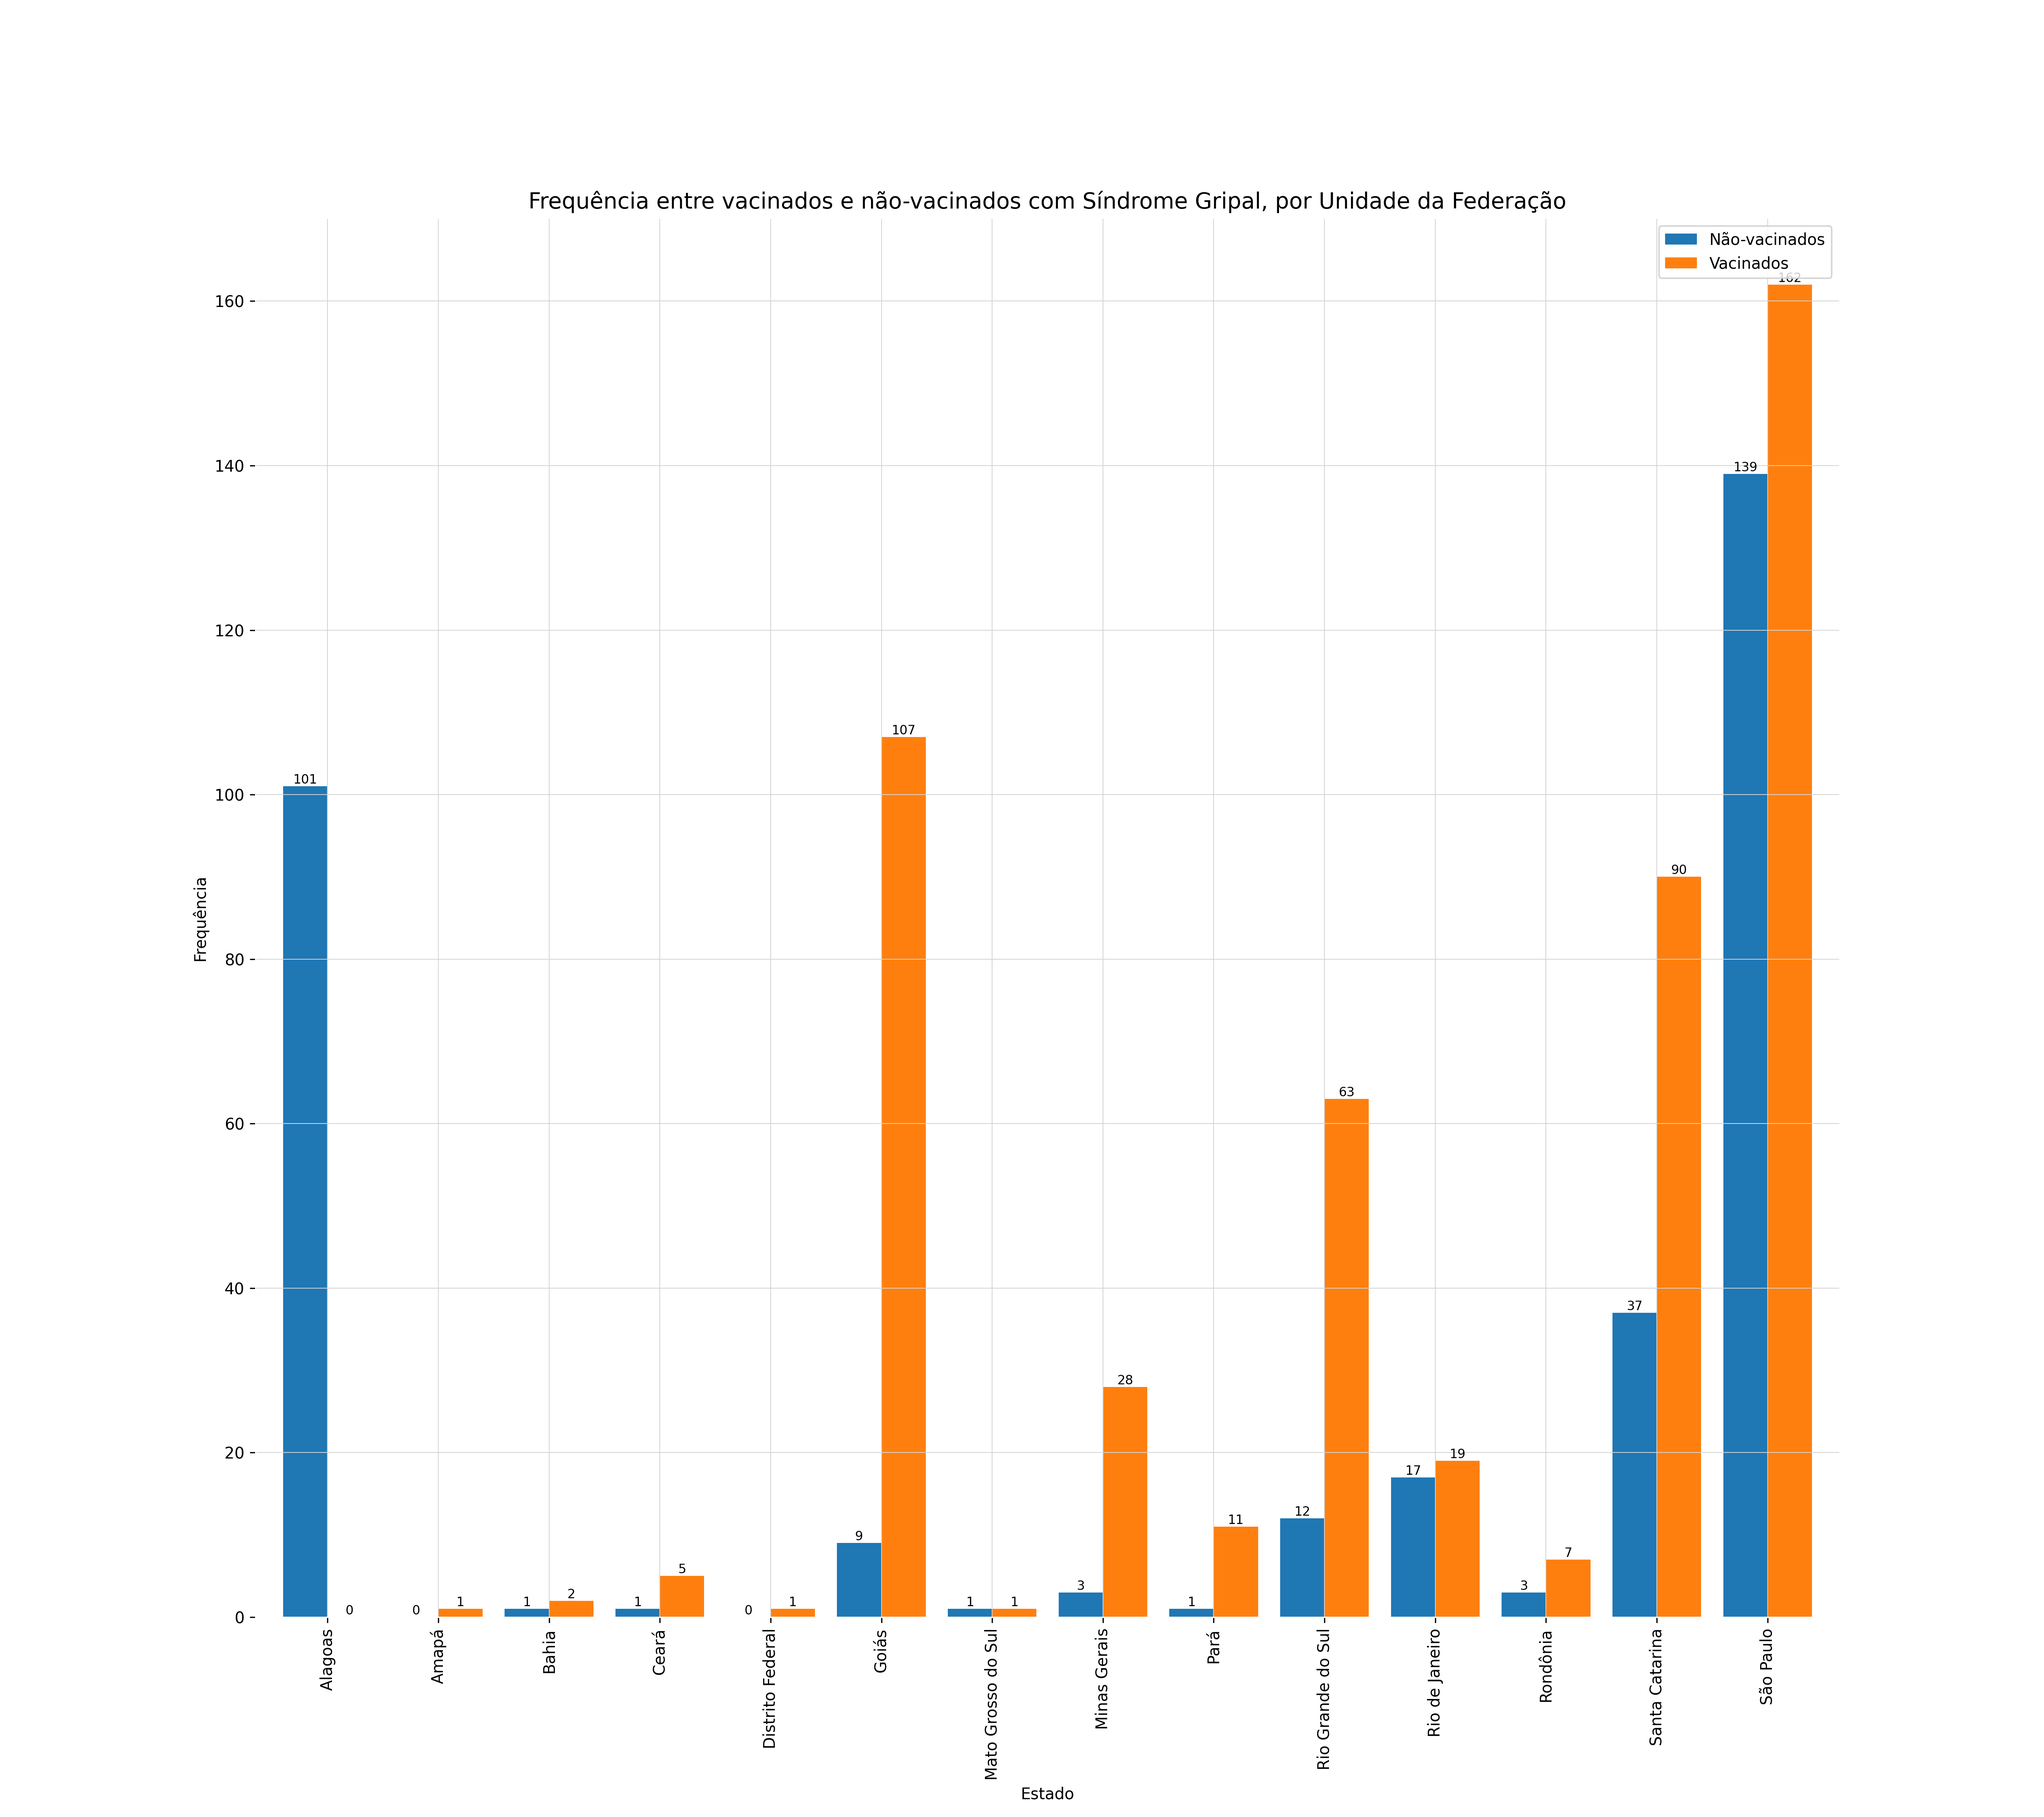
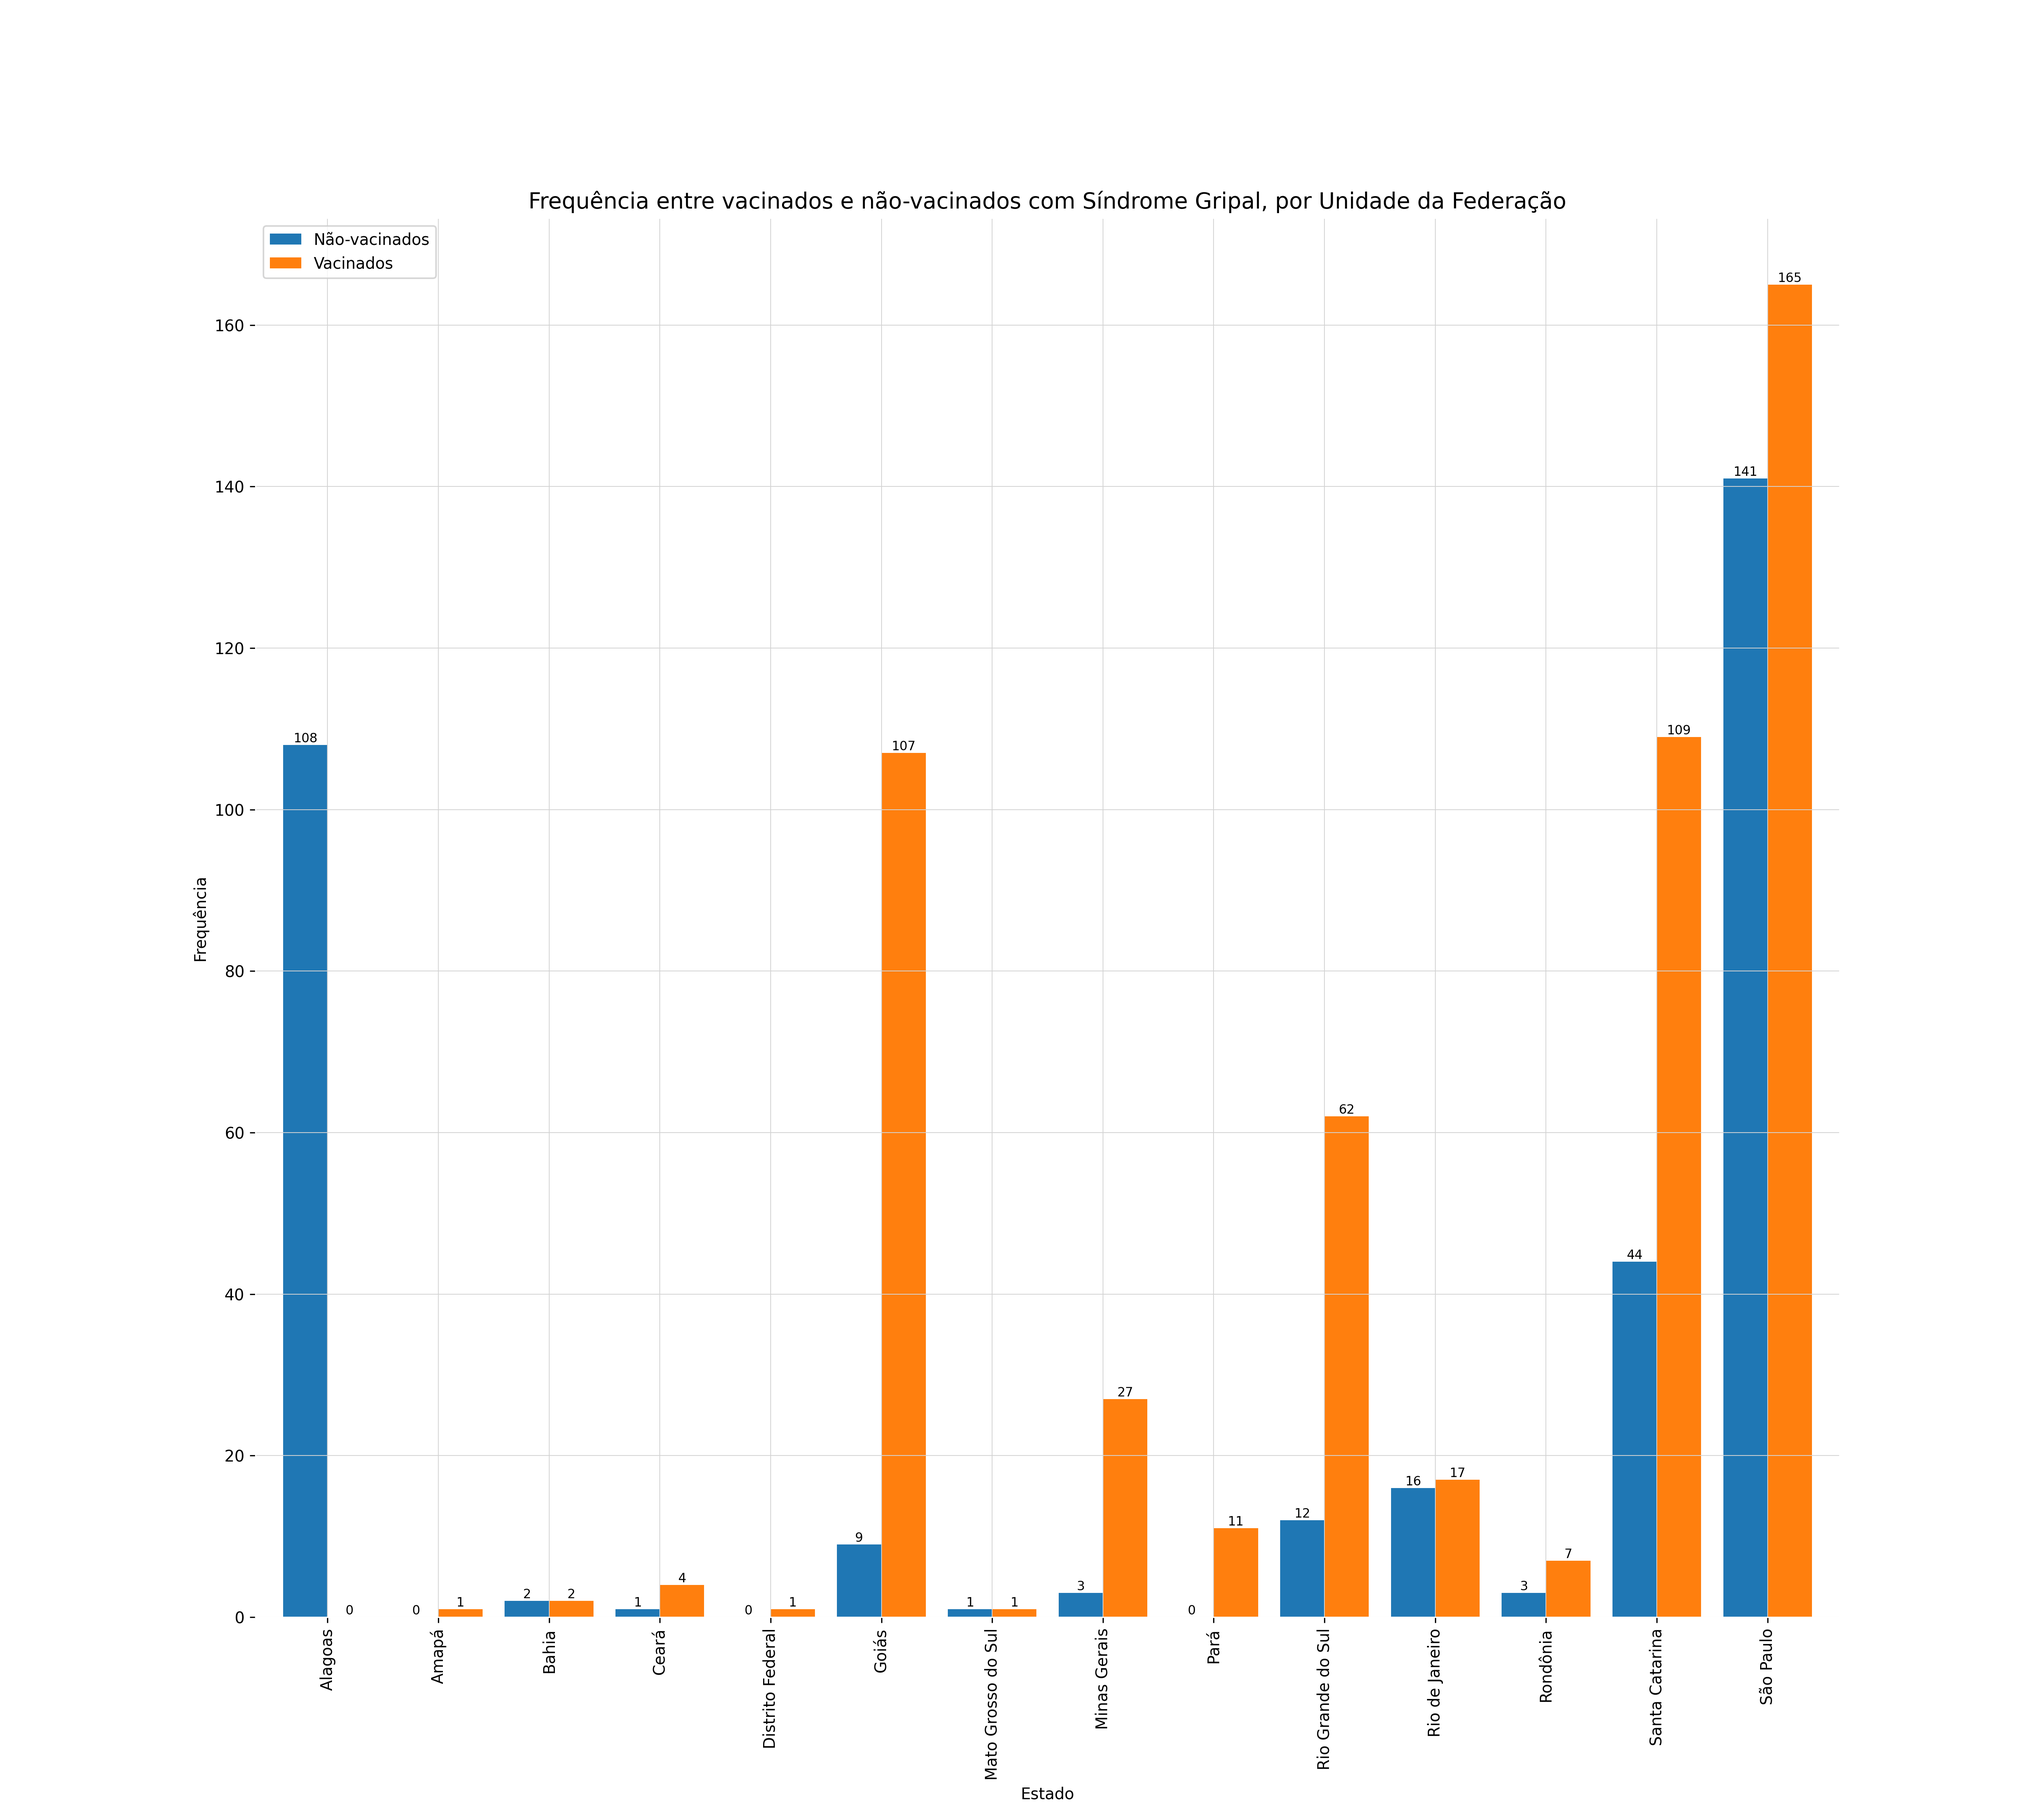
atualizando o código etl, readme e o gráfico de ocorrencia_vacinados_por_uf

diff --git a/etl.py b/etl.py
@@ -28,6 +28,7 @@ csv["sintomas"] = csv["sintomas"].str.replace(", ", ",")
 timestamp = datetime.now().strftime("%d-%m-%Y_%H-%M-%S")
 
 
+
 csv.to_csv(f"csv/datasus_sindromegripal_{timestamp}.csv", index=False, sep=",")
 
 
@@ -65,7 +66,7 @@ plt.savefig(f"imagens/ocorrencia_por_UF_{timestamp}.png", dpi=300)
 # Dentre os casos confirmados, qual a proporção de pacientes que
 # receberam ao menos 1 dose de vacina?
 # Grafico de pizza, rosca ou barra
-# df_vacinados = csv[['has_numbers']]
+
 
 csv_filtrado = csv.dropna(subset=["classificacaoFinal"])
 csv_filtrado = csv_filtrado[
@@ -73,7 +74,6 @@ csv_filtrado = csv_filtrado[
 ]
 csv_filtrado = csv_filtrado[["has_numbers", "estado"]]
 counts = csv_filtrado.groupby(["estado", "has_numbers"]).size().unstack()
-
 
 ax = counts.plot.bar(figsize=(18, 16), width=0.8)
 
@@ -92,9 +92,10 @@ ax.set_title(
 )
 ax.set_xlabel("Estado")
 ax.set_ylabel("Frequência")
-ax.legend(labels=["Não-vacinados", "Vacinados"])
+ax.legend(labels=["Não-vacinados", "Vacinados"], loc="upper left")
 
 plt.savefig(f"imagens/ocorrencia_vacinados_por_UF_{timestamp}.png", dpi=300)
+
 
 # 3
 # Como é a distribuição de idade entre pacientes sintomáticos e

diff --git a/README.md b/README.md
@@ -1,25 +1,28 @@
-# Tratamento de dados de Síndrome Gripal
+# Análise de dados sobre Síndrome Gripal no Brasil
 
-Este repositório visa tratar os dados sobre Síndrome Gripal presentes na API do [OpenSUS](https://opendatasus.saude.gov.br) de forma a responder os seguintes questionamentos:
- 
-* Qual o estado com a maior proporção de casos confirmados?
-* Dentre os casos confirmados, qual a proporção de pacientes que
-receberam ao menos 1 dose de vacina?
-* Como é a distribuição de idade entre pacientes sintomáticos e
-assintomáticos entre os casos confirmados?
-* Para (pelo menos um) estados a sua escolha, construa uma
-visualização para acompanhar a evolução dos casos ao longo do
-período amostrado.
-● Entre os pacientes sintomáticos, qual o sintoma mais frequente?
+Neste repositório, vamos analisar os dados sobre Síndrome Gripal presentes na API do [OpenSUS](https://opendatasus.saude.gov.br/dataset/bd-srag-2021), de forma a responder os seguintes questionamentos:
+
+- Qual o estado com a maior proporção de casos confirmados?
+- Dentre os casos confirmados, qual a proporção de pacientes que receberam ao menos 1 dose de vacina?
+- Como é a distribuição de idade entre pacientes sintomáticos e assintomáticos entre os casos confirmados?
+- Para (pelo menos um) estados a sua escolha, construa uma visualização para acompanhar a evolução dos casos ao longo do período amostrado.
+- Entre os pacientes sintomáticos, qual o sintoma mais frequente?
 
 ## Metodologia
 
-Para completar esta tarefa, foram utilizadas as bibliotecas requests, json, pandas, XXX, YYYY, ZZZ nas seguintes versões
+Para completar esta tarefa, foram utilizadas as seguintes ferramentas e bibliotecas:
 
-|library|version|
-|---|---|
-|pandas|vXXX|
-|requests|vXXX|
+- [Postman](https://www.postman.com/downloads/) 
+- [Python 3](https://www.python.org/downloads/) 
+  - [requests](https://docs.python-requests.org/en/latest/) - Versão 2.26.0
+  - [json](https://docs.python.org/3/library/json.html) - Faz parte do Python desde a versão 2.6;
+  - [pandas](https://pandas.pydata.org/) - Versão 1.4.1 
+  - [plotly.express](https://plotly.com/python/plotly-express/) - Versão 5.4.0 
+  - [matplotlib.pyplot](https://matplotlib.org/stable/api/_as_gen/matplotlib.pyplot.html) - Versão 3.5.1
+  - [datetime](https://docs.python.org/3/library/datetime.html) - Faz parte do Python desde a versão 2.6;
+  - [plotly.graph_objects](https://plotly.com/python/graph-objects/) - Versão 5.4.0 
+  - [pathlib.Path](https://docs.python.org/3/library/pathlib.html) - Versão 3.6.0
+
 
 ## Gráfico de Número de Casos por Estado
 
